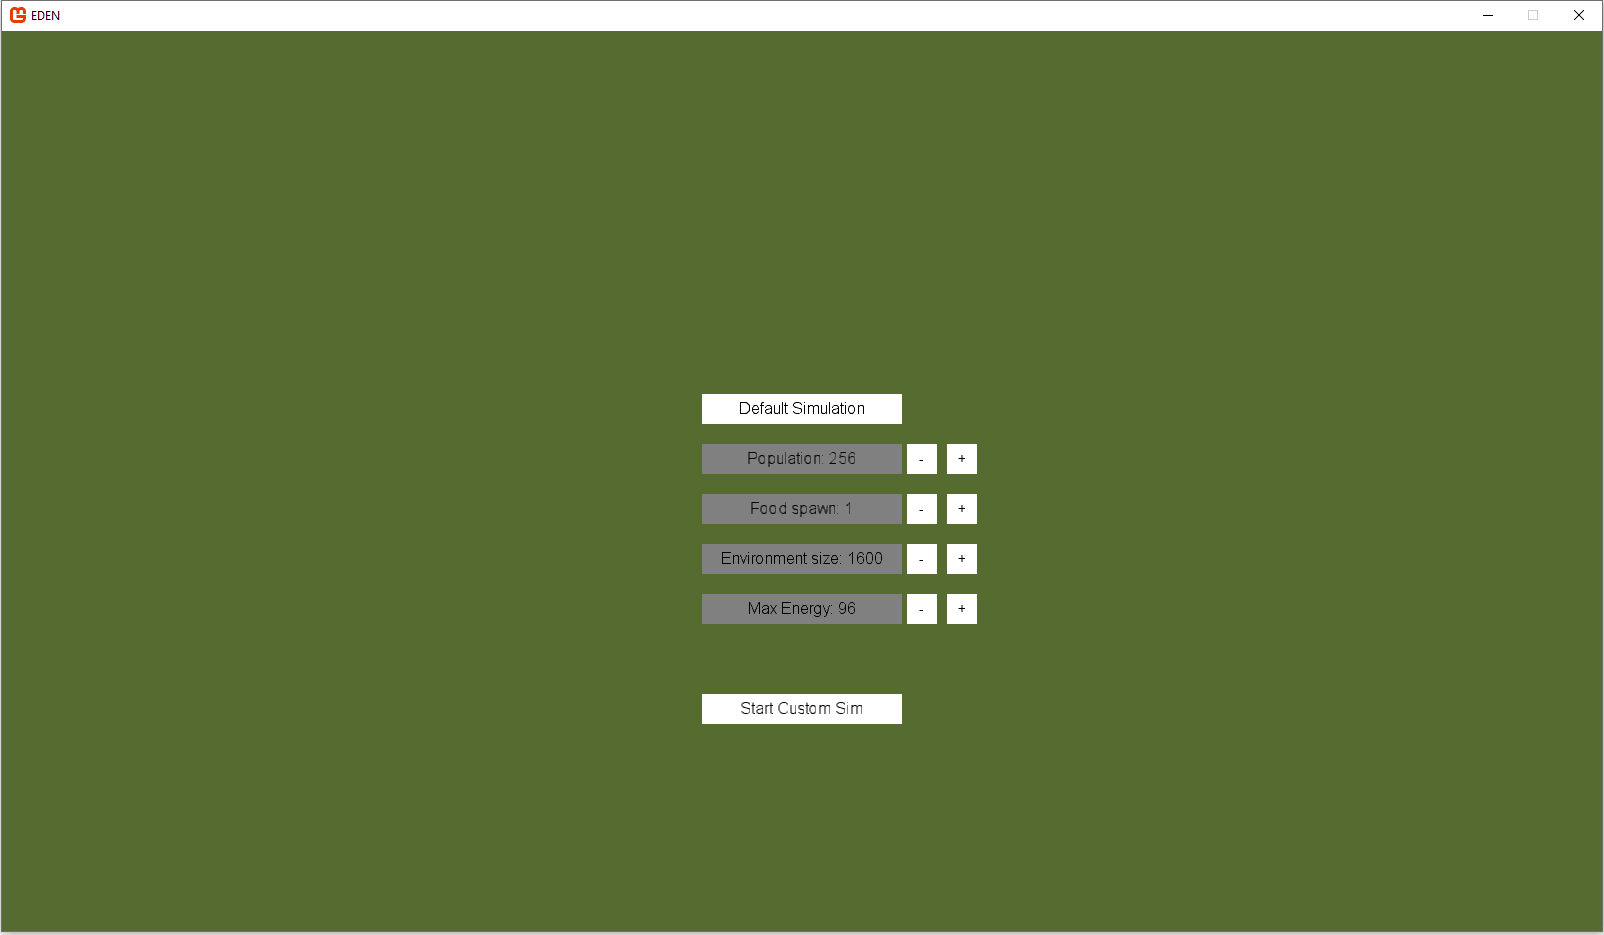
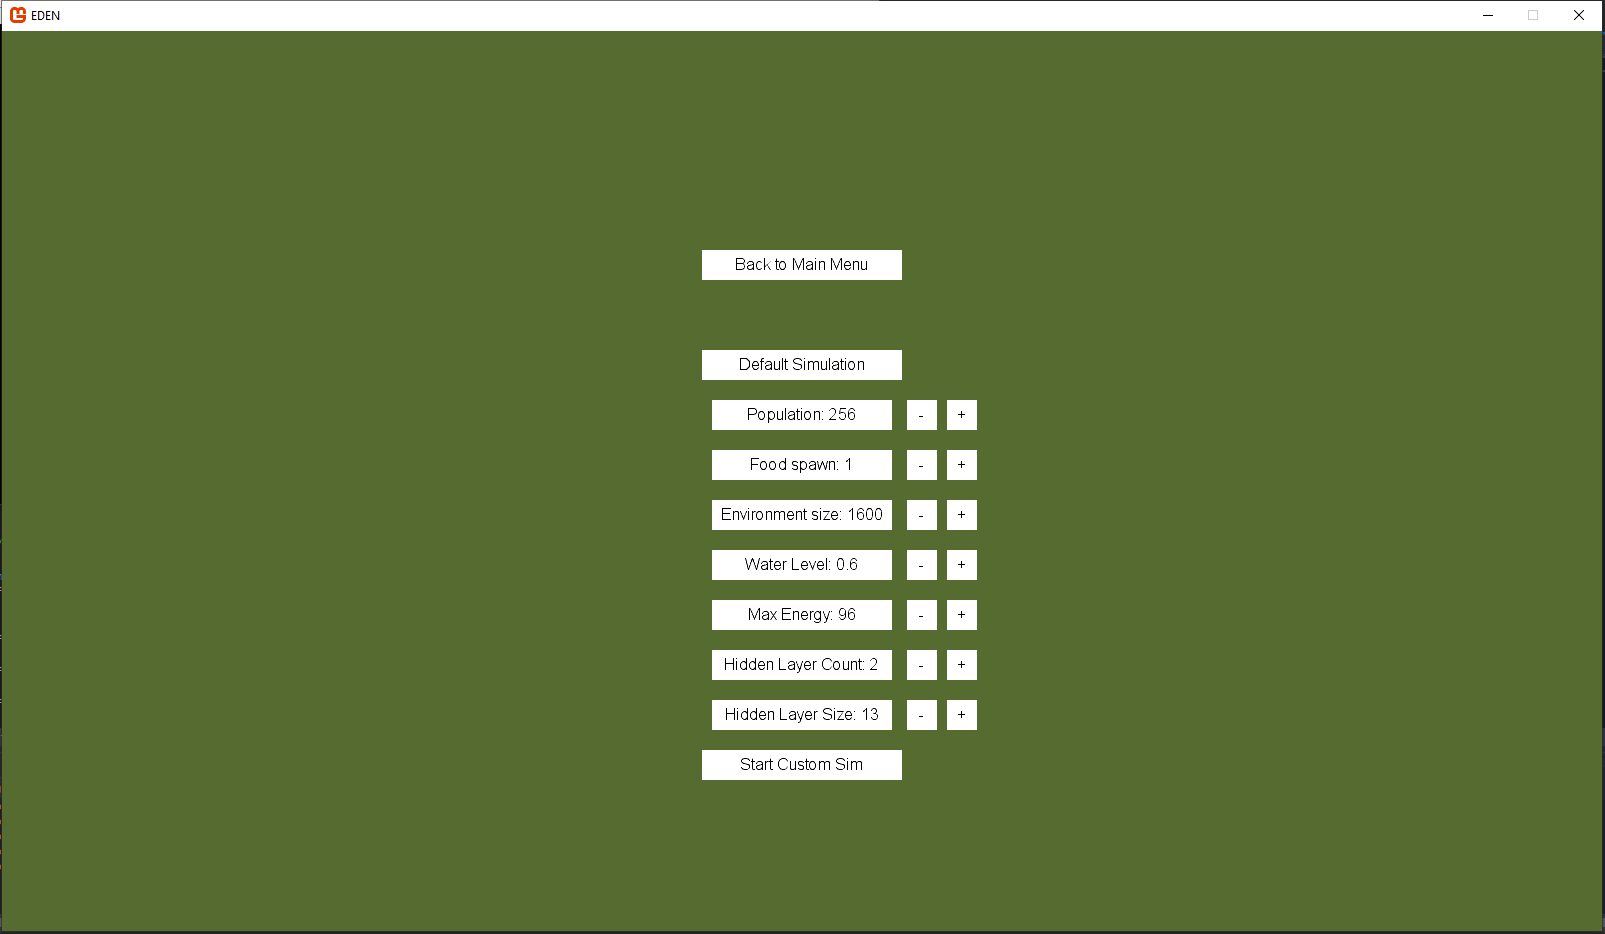
updated tech spec and user manual

Changed region(s): [[0.4364, 0.3726, 0.6234, 0.8383], [0.0, 0.0, 1.0, 1.0], [0.4364, 0.2484, 0.5611, 0.3105]]

diff --git a/technical_manual/tech_spec.md b/technical_manual/tech_spec.md
@@ -1,12 +1,20 @@
-# 0. Table of Contents
+# EDEN Technical Manual
 
+- **Sean Dyer**
+- **Sean Brereton**
+
+# 0. TOC
 {:toc}
 
 ## 1. Introduction
 
 ### 1.1 Overview
 
-The system that we developed is an application that allows users to run simulation to show the evolution of artificial creatures that make decisions through a neural network. It ......
+EDEN is a program that simulates evolution of simple creatures that are controlled using neural networks. EDEN is built uisng C# and Monogame. Creatures live in an environment that comprises of land and water and food that spawns on land. Their objectives are to survive for as long as possible by finding and eating food and to reproduce by finding a suitable mate. Water is a challenge for them as it drains their energy much quicker than staying on land.
+
+The system consists of a main menu, a simulation setting menu and the actual simulation itself. The main menu allows a user to start a new simulation, load a previous simulation or quit the application. A simulation menu appears if a user clicks on new simulation. This lets a user either start a new simulation with the default settings which we chose or they can start a new simulation with their own custom settings such as population size and water ratio. Once a simulation has been started the environment and creatures are spawned in. There is a simple GUI that shows the user statistics about the creatures including age, how many children they have and what generation the creature is.
+
+The creatures in the simulations use a basic Feed Forward Neural Network. This takes in inputs such as nearest food, nearest creature and its own energy. These inputs go through a number of hidden layers and produce 4 outputs. Hidden layer size can be set by the user in the custom simulation option. The 4 outputs are speed, direction, whether or not to eat and whether or not to reproduce. If a creature is spawned from the simulation and does not have parents it is given random behaviours. If these creatures are succesful in reproducing their genes will be passed onto further generations.
 
 ### 1.2 Glossary
 
@@ -32,30 +40,118 @@ The system that we developed is an application that allows users to run simulati
 
 ## 2. System Architecture
 
-- system architecture diagram?
+![System Architecture Diagram](images/architecture.png)
+
+ADD Description of diagram
+
+This diagram ended up being the same as in the functional specification
 
 ## 3. High-Level Design
 
-- DFD
-- Object model
+### 3.1 Class Diagram
 
-## 4. Problems and Resolution
+![Class diagram](images/class.png)
 
-- **Problem:** The biggest problem we encountered was the efficiency of the program. **Resolution** We found that our intitial method of collision detection used a lot of computation power when there were a lot of entities in the simulation. Every entity was checked against each other each frame which got very slow with large number of entities. . Quad tree
-- lived too long going in circle. Speed takes more energy
-- not reproducing. made easier to reproduce
-- no challenge. Water
-- very similar results. Custom sims
-- **Problem:** Saying goodbye to fallen nermals. **Resolution:** There is no resolution. It gets harder everyday.
+### 3.2 Data Flow Diagram
 
-## 5. Installation Guide
+![Data-Flow-Diagram](images/dfd.png)
 
-- Download zip and open .exe
+The Data Flow Diagrams is also the same as in the functional specification.
 
-OR
+### 3.3 Feed-Forward Neural Network Diagram
 
-- need c# (c# download steps)
-- windows or linux
-- download program from repo (download link)
-- run in visual studio, monogame or as a standalone program (newest version link)
-- need monogame (mongame download steps)
+![Neural net Diagram](images/nn.PNG)
+
+- In this diagram the inputs nodes on the left go through 2 hidden layers of 5 nodes each.
+- There are 4 outputs on the right.
+- The inputs must be 13 nodes and the outputs must be 4 nodes.
+- The amount of hidden layers and the size of them can be adjusted for more or less complex calculations.
+
+## 4. Development and Testing
+
+### 4.1 Development
+
+The system was developed using C# and Monogame. Monogame proved to be very useful for a number of reasons. The boiler plate code allowed us to easily set up a window and change it's size. Monogame also made it relatively easy to handle keyboard and mouse input.
+
+```C#
+public static bool Press(Keys key, bool held = false) {
+    return keyboard.IsKeyDown(key) && (held || prevKeyboard.IsKeyUp(key));
+}
+```
+
+This method allows us to easily check if a key was pressed. `IsKeyDown()` is a built in monogame method that returns a `bool` to see if a key is being pressed.
+
+Monogame also made graphics a lot easier. The built in `Draw()` function makes it easy to draw textures to the screen. This was useful for displaying creatures and the environment.
+
+### 4.2 Neural Network Unit tests
+
+For the neural network we made unit tests to determine whether or not the outputs were normalised between the correct range of -1 and 1. This is very important for the functionality of the neural network.
+
+Below is an example of a unit test for the neural network.
+
+```C#
+public bool AllWithinRange(float[] outputs) {
+    foreach (float output in outputs)
+        if (output < -1 || output > 1)
+            return false;
+    return true;
+}
+
+public bool FFTestBase(float[] inputs, int hCount, int hSize, int outSize) {
+    NeuralNet network = new NeuralNet(inputs.Length, hCount, hSize, outSize);
+
+    return AllWithinRange(network.FeedForward(inputs));
+}
+
+[TestMethod()]
+public void FeedForwardTest1() {
+    float[] inputs = { 0, 0, 0 };
+    Assert.IsTrue(FFTestBase(inputs, 3, 3, 3));
+}
+```
+
+### 4.2 Other Unit Tests
+
+- Other unit tests did..........
+
+### 4.3 Functionality tests
+
+To test the functionality of our system we walked through the application to check the functionality it. We checked functionalities such as loading simulations by trying to load invalid files. Initially it crashed the program. We added error handling which now gives an error message on the menu if an invalid file is chosen. We also tested it with valid `.bin` simulation save files
+
+![error message for load file](images/save.PNG)
+
+We tested other aspects of the menu such as custom simulation configurations. We tried starting simulations with different configuration variations.  Since users are limited to the input values they can use there were no errors when trying this.
+
+We
+
+## 5. Problems and Resolution
+
+- **Problem:** The biggest problem we encountered was the efficiency of the program.  **Resolution** We found that our intitial method of collision detection used a lot of computation power when there were a lot of entities in the simulation. Initiially, every entity was checked against each other each frame which got very slow with large number of entities. We found that a data structure called a quad tree made these collsion checks much more efficient.
+- **Problem:** Some creatures lived too long by going in circles at maximum speed, collecting food. **Resolution:** We changed the energy and movement system to try and prevent this. Now moving faster uses up more of a creatures energy than if it were to move slower.
+- **Problem:** Not many creatures were willing to reproduce which made simulations end very quickly. **Resolution:** We made easier to for creatures to reproduce by making it cost less energy to do so. This meant more creatures reproduced, therefore passing on the more successful genes.
+- **Problem:** We found that creatures did not have enough of a challenge other than finding food. **Resolution:** To solve this we added water to the environment. If a creature is in water they use up 4 times more energy than they would if they were on land. This led to more thoughtful behaviours in some creatures such as avoiding water or moving slowly through it to use less energy, whereas others died very fast in water.
+- **Problem:** Towards the end of development we found that most simulations gave very similar results. **Resolution:** We ended up implementing more customisable simulations where users can set population size, food spawn rates, environment size, maximum energy, water ratio and hidden layer settings. This resulted in more varied simulation results.
+
+## 6. Installation Guide
+
+### 6.1 Software and Hardware Requirements
+
+- Windows OS
+
+### 6.2 Installation Steps
+
+There are 2 different ways of installing the system. We recommend using the first option as it much faster and easier to use the download.
+
+#### From Download
+
+- Download the zip folder from ......
+- Unzip the folder.
+- Open the folder and click on the file named `EDEN.exe`.
+- This will open the application.
+
+#### From Gitlab
+
+- If Visual Studio 2019 is not already installed it can be downloaded at <https://visualstudio.microsoft.com/downloads/>.
+- Monogame also needs to be installed to run. This can be downloaded at <http://www.monogame.net/downloads/>.
+- When monogame and visual studio are downloaded the repo can be cloned or downloaded from <https://gitlab.computing.dcu.ie/brerets4/2020-ca326-sbrereton-eden> and opened in Visual Studio.
+- Once a solution has been made build and run through Visual Studio by pressing F5

diff --git a/user_manual/user_manual.md b/user_manual/user_manual.md
@@ -6,8 +6,11 @@
 
 ## 1. Installation
 
-- The application can be downloaded at .....
-- For Windows click the something.exe
+- This system is intended to be used on Windows PCs.
+- The system can be downloaded as a zip file at ......
+- Once EDEN.zip has been downloaded, unzip the folder.
+- In the unzipped folder open the file called EDEN.exe.
+- This will launch the application and start up the main menu.
 
 ## 2. Starting Simulation
 
@@ -25,13 +28,17 @@ The image below shows what the main menu looks like when the program is started.
 
 If the "New Simulation" button from the main menu is chosen, the user will be brought into the simulation menu. The simulation menu has a number of options.
 
+On the top of the screen the "Back to Main Menu" button can be used to return to the home page
+
 The first option is to start a simulation using default settings. This will load in a simulation using the preset options for population size, food spawn rates, environment size and the maximum energy a creature can have.
 
-If you do not choose the Defualt simulation, you can configure 4 different aspects of the simulation.
+If you do not choose the Default simulation, you can configure 4 different aspects of the simulation.
 
 - The first configurable option is to set the initial population. Using the "+" and "-" buttons, you can make the starting population higher or lower. The lowest population option is 128 creatures and the highest is 1024 creatures.
 - The second option is to set the food spawn rate. This rate is relative to the population. For example, if the starting population is 256 then a rate of 1.2 will spawn 307 pieces of food. The lowest rate is 0 and the highest is 2.
 - The third option is to set the environment size. This makes the environment as a square with height being the chosen number. The lowest option is 320 x 320 and the highest option is 3200 x 3200.
+- H2O
+- hidden layer
 - The last configurable option is to set the maximmum energy for creatures. If the maximum energy is 96, this means that a creature will have a maximum of 96 seconds to live if they do not eat more food. The lowest option is 48 seconds and the highest option is 192 seconds.
 
 Below is a picture of the simulation settings menu.
@@ -41,6 +48,7 @@ Below is a picture of the simulation settings menu.
 ### 2.3 Load Simulation
 
 If this is chosen a Windows File Explorer window will pop up. From here you can look through your previously saved simulations that are saved as .bin files. When you choose the simulation you want to open you can double click that file and it will launch the simulation.
+If an invalid file is chosen an error message will appear on the screen beside the "Load Simulation" button
 
 ![Load simualtion menu](images/loadmenu.PNG)
 
@@ -48,15 +56,20 @@ If this is chosen a Windows File Explorer window will pop up. From here you can 
 
 When a simulation is started it will run itself without the need of any user interaction. However there is a User Interface that can be used to look at statistics. There are also other keyboard controls that the user can use.
 
+![Simulation screenshot](images/sim.PNG)
+
 ### 3.1 Understanding the GUI
 
 - When the simulation is running there are a few GUI features. On the left hand side of the screen there is a list showing creatures statistics. It shows their name, age, how many children it has and what generation it is. The list is automatically sorted by age.
 - In the actual simulation creatures are depicted as round entities with eyes. There is also food which spawns that is depicted as a white square. When a creature dies it drops food that is the same colour as the creature was. Land is shown as a green colour and water is blue.
+- The oldest creature has a red ring around it, the creature with the most children has a blue ring and the highest generation creature has a yellow ring around it.
 
 ### 3.2 Controls
 
-- There is a camera that can be used to navigate the simulation. To zoom in and out you cane either use the "+' and "-" keys or use the mouse scroll wheel. Users can also move around the simulation using the keyboard. The "W" or Up arrow keys move the camera up. The "S" or Down arrow keys move the camera down. The "A" or Left arrow keys move the camera left. The "D" or Right arrow keys move the camera right. Pressing the Shift key makes zooming and moving the camera faster while it is held down.
+- There is a camera that can be used to navigate the simulation. To zoom in and out you can either use the "+' and "-" keys or use the mouse scroll wheel. Users can also move around the simulation using the keyboard. The "W" or Up arrow keys move the camera up. The "S" or Down arrow keys move the camera down. The "A" or Left arrow keys move the camera left. The "D" or Right arrow keys move the camera right. Pressing the Shift key makes zooming and moving the camera faster while it is held down.
 - There is also a quad tree visualiser that can be shown by pressing the "Q" button. This shows how the screen is split into sections by the quad tree.
 - A user can also left click on a creature. This focuses the camera on the selected creature and follow it until the user moves the camera manually.
 - The simulation speed can also be sped up or slowed down. Pressing the "[" key slows down the simulation, whereas pressing the "]" key speed up time.
-- When you are finished running the simulation you can exit without saving by closing the program or exit and save by pressing "?????" which opens up your File Exporer. Here you can select where you want to save the simulation.
+- When you are finished running the simulation you can exit without saving by closing the program or exit and save by pressing "?" which opens up your File Exporer. Here you can select where you want to save the simulation.
+
+![Screenshot showing quad tree and zoom](images/quadtree.PNG)
